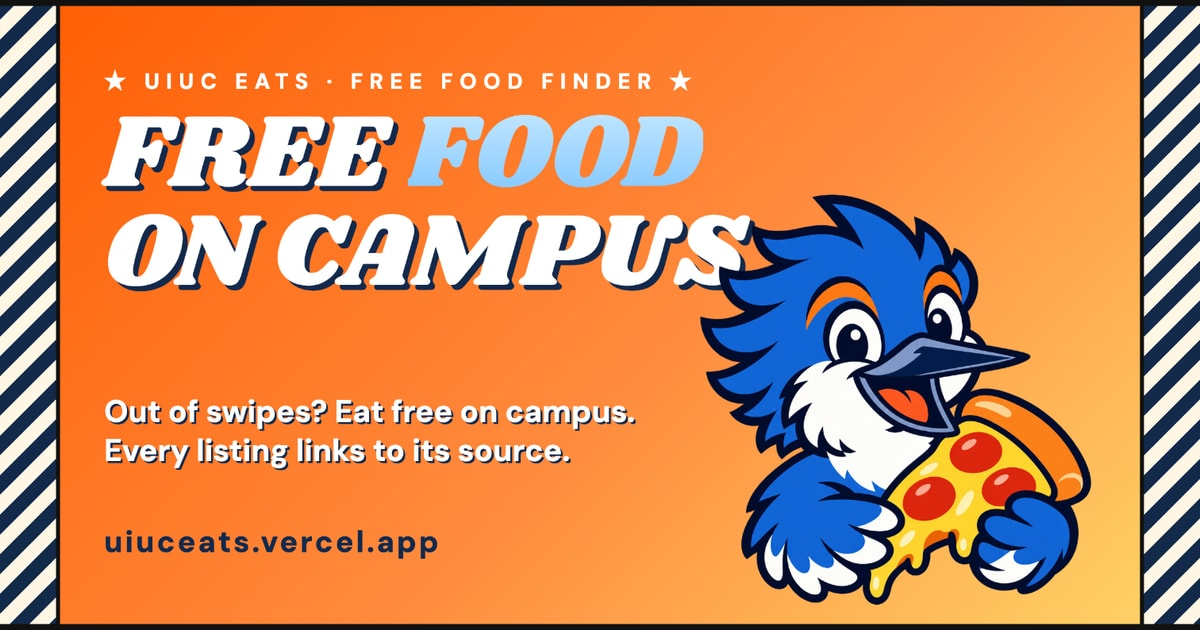
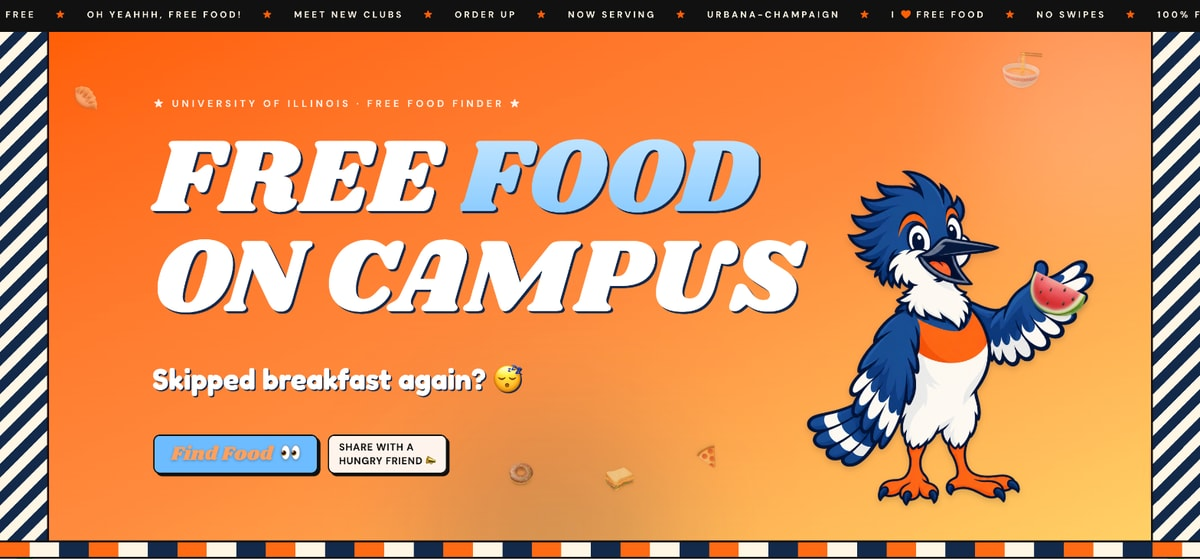
style: link preview is the real hero, marquee to striped border

diff --git a/app/page.tsx b/app/page.tsx
@@ -8,7 +8,7 @@ export const metadata: Metadata = {
     description: "Out of swipes? Here's where to eat for free on campus. Every listing links to its source.",
     type: "website",
     url: "https://uiuceats.vercel.app",
-    images: [{ url: "/og.jpg", width: 1200, height: 630, alt: "UIUC Eats: free food on campus" }],
+    images: [{ url: "/og.jpg", width: 1200, height: 559, alt: "UIUC Eats: free food on campus" }],
   },
   twitter: {
     card: "summary_large_image",
